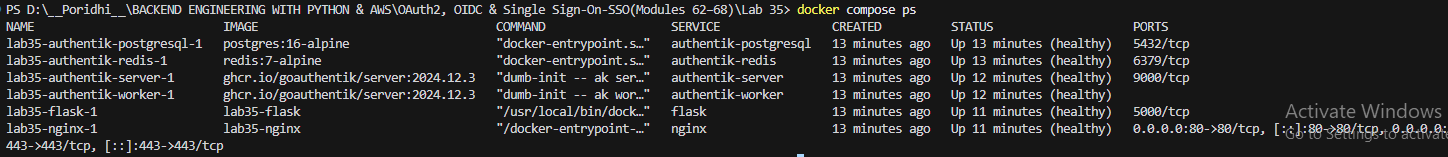
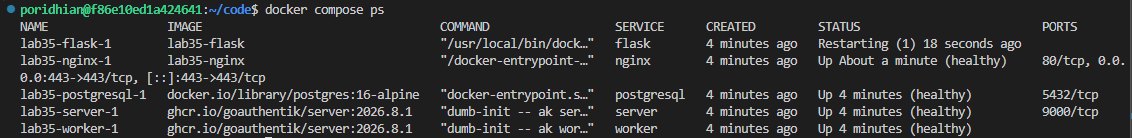
Rebuild Shihab_all_lab_assets from scratch
Wipe and re-copy every image directly from the source lab folders to
ensure a clean, exact sync. README.md updated to reflect the new total
of 115 images. Three existing images had minor content updates that
were carried over.

diff --git a/README.md b/README.md
@@ -6,4 +6,6 @@ Consolidated folder containing all images and assets from the labs across these 
 - **Real-Time Systems** (Modules 72–73) — Labs 41–43
 - **Scaling, Benchmarking, and Resilience for Elasticsearch** (Modules 78–79) — Lab 52 (no images)
 
-Each lab folder preserves the original subdirectory layout (`diagram/`, `diagrams/`, `images/`, `screenshots/`, etc.).
+Total images: **115**.
+
+Each lab folder preserves the original subdirectory layout (`diagram/`, `diagrams/`, `images/`, `screenshots/`, etc.). Files are served via raw.githubusercontent.com and referenced from the lab READMEs.
